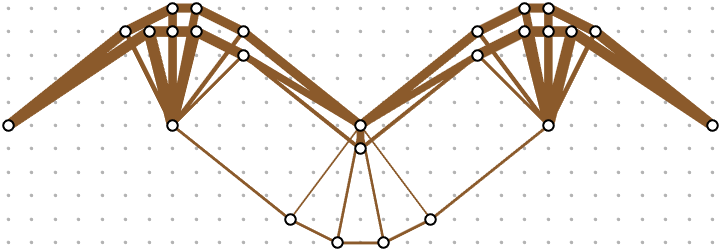
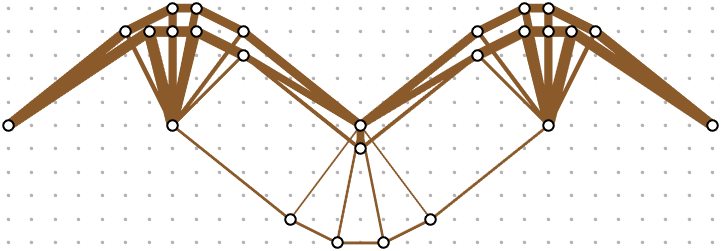
Publish verified September 22 panel results and release documentation

diff --git a/examples/run_validation_Zhang2018.m b/examples/run_validation_Zhang2018.m
@@ -35,7 +35,7 @@ p.x0        = 0.01;
 p.volGroups = 1;
 p.Vmax      = Vmax;
 p.maxIter   = 1000;
-p.alphaF    = 1e-3;  p.Nfilter = 1;
+p.alphaF    = 1e-4;  p.Nfilter = 1;
 p.barColor  = [0.545 0.353 0.169];      % the paper's single-material colour
 p.label     = 'Zhang2018 Fig. 7(c)  --  1 material, 1 volume constraint';
 p.resultDir = 'Zhang2018_Fig7c';
@@ -49,7 +49,7 @@ p.x0        = [0.01 0.01];
 p.volGroups = [1 1];                    % both in constraint 1: one shared budget
 p.Vmax      = Vmax;
 p.maxIter   = 1000;
-p.alphaF    = 1e-3;  p.Nfilter = 1;
+p.alphaF    = 1e-4;  p.Nfilter = 1;
 p.label     = 'Zhang2018 Fig. 8(c)  --  2 materials, 1 volume constraint';
 p.resultDir = 'Zhang2018_Fig8c';
 if ~isempty(outRoot), p.resultDir = fullfile(outRoot,p.resultDir); end
@@ -62,7 +62,7 @@ p.x0        = [0.01 0.01];
 p.volGroups = [1 2];                    % one budget per material
 p.Vmax      = [0.5 0.5]*Vmax;
 p.maxIter   = 1000;
-p.alphaF    = 1e-6;  p.Nfilter = 1;     % 1000x finer filter than the other two
+p.alphaF    = 1e-4;  p.Nfilter = 1;     % same filter in all three cases
 p.label     = 'Zhang2018 Fig. 8(d)  --  2 materials, 2 volume constraints';
 p.resultDir = 'Zhang2018_Fig8d';
 if ~isempty(outRoot), p.resultDir = fullfile(outRoot,p.resultDir); end

diff --git a/docs/examples.md b/docs/examples.md
@@ -1,20 +1,34 @@
 # Manuscript study settings
 
-For the latest rerun, see `../results/verification.csv`. The numerical/timing table below records the earlier 13 September run, not a timing measurement made during the latest verification run.
-Verified 2026-09-13 using the current runners, MATLAB R2026a Update 2 and base MATLAB. Historical saved outputs are not the source of the revised manuscript tables.
+Verified 2026-09-22 using base MATLAB R2026a Update 2 on 64-bit Windows.
+See [verification.csv](../results/verification.csv) for full-precision outcomes,
+iteration counts, measured runtimes and numerical checks for all twelve cases.
 
-The package has three self-contained runners. Panel runs all three cases; deep-beam and bridge runners enable the first case by default. Pass `true` to the deep-beam or bridge runner for the others. Run all three studies to reproduce the twelve cases. Copy and rename a runner function to create a new case; no case registry is required. Set a new absolute resultDir to preserve historical outputs.
+All three study functions run their complete study by default. Pass `false`
+to the deep-beam or bridge function for the first case only. Supply an absolute
+output root to preserve existing outputs.
 
-## Panel benchmark — Zhang et al. 2018 Table 4
-30×10 m; 30×10 cells; 341 nodes and 19,632 bars; connectivity level 10; total Vmax = 0.15 m³; tolRel = 3e-4.
+## Panel comparison - Zhang et al. (2018), Table 4
 
-| Source panel | maxIter | Nfilter | alphaF | Budgets |
+Geometry: 30 x 10 m; 30 x 10 cells; 341 nodes and 19,632 bars;
+connectivity level 10; total volume 0.15 m^3; `tolRel=3e-4`.
+
+| Source panel | maxIter | Nfilter | alphaF | Budgets (m^3) |
 |---|---:|---:|---:|---|
-| Fig7c |1000|100|1e-3|one 0.15|
-| Fig8c |600|1|1e-3|shared 0.15|
-| Fig8d |1000|1|1e-6|separate 0.075 each|
+| Fig. 7(c) | 1000 | 1 | 1e-4 | One: 0.15 |
+| Fig. 8(c) | 1000 | 1 | 1e-4 | Shared: 0.15 |
+| Fig. 8(d) | 1000 | 1 | 1e-4 | Separate: 0.075 each |
 
-Computed objectives 1.13640063555, 1.13642585758 and 1.17935063918 match the printed values 1.136, 1.136 and 1.179. Shared fractions 0.621796078783/0.378203921217 differ from 0.63/0.37 by 0.82 percentage points; do not claim exact allocation reproduction. Separate fractions are 0.5/0.5. Published member counts 48, 25+19 and 42+33 remain contextual.
+| Case | Published J | Computed J | Difference (%) | Material fractions | Active / displayed / published members |
+|---|---:|---:|---:|---|---|
+| One material | 1.136 | 1.136371 | +0.033 | 1.0000 | 103 / 48 / 48 |
+| Shared budget | 1.136 | 1.136368 | +0.032 | 0.6230 / 0.3770 | 111 / 48 / (25+19) |
+| Separate budgets | 1.179 | 1.179519 | +0.044 | 0.5000 / 0.5000 | 129 / 70 / (42+33) |
+
+The objectives agree within 0.045%; the first two match at three decimal places.
+The third rounds to 1.180, not 1.179. The first two objectives differ by about
+0.00027%. Shared fractions differ from 0.63/0.37 by about 0.70 percentage points.
+Objective agreement does not establish exact allocation or member-count agreement.
 
 ## Deep-beam demonstrations — Zhao et al. 2023 Fig1(d,f,h,j,l)
 Geometry is 60×15 in; P = 1 kip; Et = 29,007.5 ksi; Ec = 4,351.1 ksi. Settings: maxIter = 2000, tolRel = 1e-6, alphaF = 1e-4 and Nfilter = 350. Four 16×4 meshes have 2,196 candidate bars; scenario 2 uses 12×3 and 835 bars. Automatic budgets are 493.3380866 in³ per material (total 986.6761731), or 190.3805558 per material for scenario 2 (total 380.7611116). These five source panels have no directly associated published numerical objective/load-path targets. They demonstrate restrictions, rather than validate published values. Different mesh-dependent budgets prohibit direct objective comparison between scenario 2 and the other cases.
@@ -22,22 +36,17 @@ Geometry is 60×15 in; P = 1 kip; Et = 29,007.5 ksi; Ec = 4,351.1 ksi. Settings:
 ## Bridge reference comparison — Zhang et al. 2017
 Source: Example 2, Fig. 11(a), Fig. 13(a–d) and Table 3. Geometry: 20×5 m; 18×7 grid; 152 nodes and 7,083 bars. Et = 7e7 kN/m²; Ec/Et = 1, .09, .04 and .0225. Settings: maxIter = 6000, fixed eta = .5, alphaF = 1e-4, Nfilter = 1 and tolRel = 0. Vmax = .05 m³ is inferred from J/Psi*, so this is a reference comparison. Published objectives are 1.92, 12.25, 21.96 and 29.57; the largest relative difference is 0.5379%. Display thresholds are .01, .005, .005 and .001, respectively.
 
-## Fresh outcomes
-Active members have positive area in any material. Displayed members follow plot threshold and collinear merging. These are not the source's Published members. All twelve runs below converged and passed final equilibrium and displayed connectivity checks. Timing is one wall-clock run including Engine construction, solve, metrics, plotting and initial saving; it excludes MATLAB startup and later common-scale plotting.
+## Interpreting the saved outcomes
 
-| Case | J | Z/(PH) | Active members | Displayed members | Iterations | Seconds | Equilibrium residual |
-|---|---:|---:|---:|---:|---:|---:|---:|
-|Ex1_deepbeam_full_depth|0.001087405004|7.729301948068732|44|31|716|8.6089535|1.200e-10|
-|Ex2_deepbeam_tie_23H|0.002915000501|7.8750000000108935|26|15|1544|9.4121458|2.172e-11|
-|Ex3_deepbeam_tie_half_H|0.001118734725|7.851190476214265|40|27|452|6.1571808|5.639e-11|
-|Ex4_deepbeam_tie_0_90|0.001321029543|8.60000000001441|54|33|1065|10.9054482|1.099e-10|
-|Ex5_deepbeam_tie_0_45_90|0.001124908452|7.875005988999845|54|23|1707|16.3893739|1.115e-10|
-|Ex7_longspan_bridge\EcEt_0.0225|29.48442515|48.760141101880066|32|26|350|6.105196|1.211e-09|
-|Ex7_longspan_bridge\EcEt_0.04|22.07812662|31.903548799502577|55|45|968|12.0761529|2.829e-13|
-|Ex7_longspan_bridge\EcEt_0.09|12.24315797|20.70433358869541|79|60|1528|18.2552754|7.148e-10|
-|Ex7_longspan_bridge\EcEt_1|1.918642026|18.32381936502688|68|50|3307|38.4387585|4.234e-09|
-|Zhang2018_Fig7c|1.136400636|not requested|103|48|455|27.5011554|2.173e-10|
-|Zhang2018_Fig8c|1.136425858|not requested|97|48|411|29.9878394|3.627e-10|
-|Zhang2018_Fig8d|1.179350639|not requested|175|73|584|64.8662545|3.254e-10|
+Active members have positive area in any material. Displayed members follow
+the display threshold and collinear merging; published counts are separate
+reference quantities. All twelve cases passed convergence, final equilibrium,
+volume-budget and displayed-connectivity checks.
 
-The separate tests/selftest_ZhaoAppendixB.m verifies coordinates, force recovery, lengths and the production Results.loadPath evaluator. It does not validate the optimizer. See the revision verification files for full-precision values, supplied inputs and S.parameters.
+Timings measure each Engine call, including construction, solution, metrics,
+plotting and initial saving. They exclude MATLAB startup and later common-scale
+figure regeneration and depend on the machine and execution conditions.
+
+`tests/selftest_ZhaoAppendixB.m` independently checks coordinates, force recovery,
+lengths and `Results.loadPath`; it does not validate the optimizer. Effective
+inputs are stored in each regenerated result's `S.parameters`.

diff --git a/CHANGELOG.md b/CHANGELOG.md
@@ -1,46 +1,24 @@
 # Changelog
 
-## Unreleased
+## 1.0.0 - 2026-09-22
 
-### Changed
-
-- Made `LICENSE.txt` carry the verbatim GNU GPL v3 text and removed the
-  duplicate `COPYING.txt`, so the license is detected automatically. The
-  `GPL-3.0-or-later` grant is stated by the SPDX header in each source file.
-
-- Flattened the package layout: `src/`, `examples/`, `tests/`, `docs/` and
-  `results/` now sit at the repository root instead of a nested `STMTopRC/`
-  directory. Study runners and `Results` locate their own paths relatively,
-  so no MATLAB code changed. Documentation paths were updated to match.
-- Removed the duplicate `STMTopRC/LICENSE.txt`; the root notice is retained.
-
-- Aligned member-force notation with the manuscript: `Fe` and `S.Fe`.
-  `Results.load` converts the legacy saved force field to the current name.
-
-- Shortened license notices; preserved the unchanged full GPL text in `COPYING.txt`.
-
-- Added author, contribution, reproducibility and troubleshooting guidance.
-- Expanded the root README with installation, units, study and result-field notes.
-- Consolidated usage, output and regression instructions into one root README.
-- Kept three independently callable study functions for the manuscript examples.
-- Added required/unknown input errors and core model validation.
-- Corrected symmetry detection for asymmetric horizontal restraints.
-- Made display metrics respect the stored collinear-merge setting.
-- Added errors for unpaired rescaling options and failed summary-file opening.
-- Added release regression checks and refreshed all twelve case outputs.
-- Corrected citation metadata and clarified numerical and modeling limitations.
-- Removed obsolete documentation and illustrative assets from the software package.
+- Ground-structure engine and result utilities with bilinear axial materials,
+  grouped volume constraints, ZPR updates, discrete filtering and tie restrictions.
+- Three study functions cover twelve manuscript cases; all cases run by default.
+- All panel cases use `alphaF=1e-4`, `Nfilter=1` and `maxIter=1000`.
+- Refreshed panel layouts, summaries and the twelve-case verification table.
+- Aligned signed member-force notation with the manuscript (`Fe` and `S.Fe`).
+- Added input validation, asymmetric-restraint and result-persistence regressions.
+- Consolidated installation and usage in one root README, with supporting
+  parameter, numerical-method, study and reproduction documentation.
+- Included the full GNU GPL v3 license and GPL-3.0-or-later source notices.
 
 ### Verification
 
-All twelve manuscript cases passed convergence, final equilibrium, volume-budget
-and displayed-connectivity checks on MATLAB R2026a Update 2. Panel objectives
-matched published values at their printed precision. The saved verification table
-records this run; the individual study functions regenerate case outputs.
-
-## 1.0.0 - 2026-09-16
-
-Initial version with the ground-structure engine, result utilities and three
-study definitions. This version uses bilinear axial materials, grouped volume
-constraints, ZPR updates, discrete filtering and tie-placement restrictions.
-The changes above have not been assigned a new release tag.
+Verified on 2026-09-22 using base MATLAB R2026a Update 2 on 64-bit Windows.
+Release regressions and all twelve studies passed convergence, final equilibrium,
+volume-budget and displayed-connectivity checks. The three panel objectives
+agree with published values within 0.045%; two match at printed precision.
+The separate-budget objective is 1.179519, rounding to 1.180 rather than 1.179.
+The full-precision numerical and timing snapshot is `results/verification.csv`.
+These checks do not establish global optimality, stability or RC design capacity.

diff --git a/README.md b/README.md
@@ -1,5 +1,7 @@
 # STMTopRC
 
+Release **v1.0.0 - 2026-09-22**.
+
 MATLAB ground-structure topology optimization for reinforced-concrete strut-and-tie models. Bilinear axial materials, grouped volume constraints, ZPR area updates, discrete filtering, and tie location/angle restrictions support research and teaching. The package does not perform RC strength, anchorage, nodal-zone, or detailing checks.
 
 This repository accompanies the manuscript *Ground-structure topology
@@ -43,8 +45,8 @@ beam = run_deepbeam_Ex1_to_Ex5(true);     % five deep-beam cases
 bridge = run_bridge_Ex7a_to_Ex7d(true);   % four bridge cases
 ```
 
-These are the three study entry points for the manuscript. Omit `true` from
-the deep-beam or bridge call to run only its first case. Runners do not clear
+These are the three study entry points for the manuscript. All cases run by default. Pass `false` to
+the deep-beam or bridge function to run only its first case. Runners do not clear
 the caller's workspace and return cell arrays of result structures; for
 example, `panel{1}.J` gives the first panel's objective.
 
@@ -138,7 +140,7 @@ width follows the square root of area.
 
 Optimization convergence, physical equilibrium, volume feasibility, and displayed connectivity are distinct checks. Connectivity does not establish stability or capacity. `S.Z` is normalized by `P*height`; `Results.loadPath` returns the dimensional force-length sum. The bridge's reference P is 40 kN per loaded node, not its 360 kN total.
 
-Panel objectives are checked against printed published targets; shared-budget fractions do not exactly match. Deep beams demonstrate restrictions. The bridge uses an inferred budget and is a reference comparison.
+The three panel objectives agree with published targets within 0.045%; two match at printed precision. Shared-budget fractions are 0.6230/0.3770 rather than 0.63/0.37. Deep beams demonstrate restrictions. The bridge uses an inferred budget and is a reference comparison.
 
 | Result field | Meaning |
 |---|---|
@@ -171,7 +173,7 @@ Zero moduli use `inactiveFactor=1e-6` soft branches. Tie restrictions apply to m
 | [Parameters](docs/parameter_guide.md) | Inputs, defaults and units |
 | [Algorithms](docs/engine_notes.md) | Numerical implementation |
 | [Runner notes](docs/runner_notes.md) | Study assumptions |
-| [Study settings](docs/examples.md) | Model definitions and historical results |
+| [Study settings](docs/examples.md) | Model definitions and verified results |
 | [Reproducibility](docs/reproducibility.md) | Environment, execution, checks and retained data |
 | [Troubleshooting](docs/troubleshooting.md) | Common symptoms and corrective steps |
 | [Results](results/) | Computed layouts, summaries and verification table |

diff --git a/docs/reproducibility.md b/docs/reproducibility.md
@@ -45,8 +45,8 @@ diary off;
 | Bridge | 4 | Reference comparison with an inferred physical volume budget |
 
 See [study settings](examples.md) for geometry, loads, materials and filters.
-The deep-beam and bridge functions run only their first case when called without
-`true`. Running an existing destination overwrites its case files.
+The deep-beam and bridge functions run all cases by default; pass `false` as
+the first argument to run only the first case. Running an existing destination overwrites its case files.
 
 ## Inspect the numerical checks
 
@@ -68,7 +68,11 @@ for k = 1:numel(cases)
            'Displayed graph needs inspection: %s', S.label);
 end
 J = cellfun(@(S) S.J,panel);
-assert(all(abs(J-[1.136 1.136 1.179]) < 0.0005));
+published = [1.136 1.136 1.179];
+relativePercent = 100*abs(J-published)./published;
+assert(all(relativePercent < 0.045)); % stated comparison, not an optimality test
+assert(all(round(J(1:2),3)==published(1:2)));
+% The separate-budget value rounds to 1.180, not 1.179.
 ```
 
 These checks serve different purposes. Area convergence is not proof of a
@@ -88,8 +92,10 @@ your returned `S.J`, `S.Z`, `S.nActive`, `S.nMerged`, `S.nIter` and `S.resid`
 with the corresponding row. Panel `Z` is NaN because those cases disable
 load-path reporting. Do not interpret that NaN as a failed state solve.
 
-Use printed-precision agreement for the stated panel comparison. The shared
-material fractions are about 0.6218/0.3782, rather than the source's 0.63/0.37.
+The 2026-09-22 panel results agree with published objectives within 0.045%;
+only the first two match at three decimal places. The separate-budget objective
+is 1.179519 and rounds to 1.180. Shared material fractions are about
+0.6230/0.3770, rather than the source's 0.63/0.37.
 Deep-beam Scenario 2 changes mesh and automatic budgets, so its objective cannot
 isolate the effect of the tie restriction. The bridge's 0.05 m^3 budget is
 inferred; its objective agreement is not an independent validation.

diff --git a/docs/parameter_guide.md b/docs/parameter_guide.md
@@ -116,7 +116,7 @@ fire at all, and `maxIter` ends the run instead. `tolRel` is scale-free and is
 the right test when comparing models whose areas differ by orders of magnitude.
 Setting `tolOpt = 0` leaves `tolRel` in sole charge.
 
-The five `eta*` parameters rarely need touching. Reach for them only if a run
+The four `eta*` parameters rarely need touching. Reach for them only if a run
 oscillates without converging — or to pin damping off (`etaMin = etaMax = 0.5`,
 `etaInc = etaDec = 1`) when reproducing a source that uses a fixed OC exponent,
 as the bridge case does.
@@ -146,13 +146,6 @@ An angle `a` also allows `180-a`. Struts are never restricted. These act on
 which bars are *eligible* to carry the tie material, not on the sign of the
 converged force — which is why a layout can still show tension outside its
 permitted tie region, carried there by a strut.
-
-## Live animation — removed
-
-`animate`, `showGround`, `animateEvery` and `groundPause` no longer exist. The
-live-view window was display only and never touched a reported number; it was
-removed on 9 September 2026. A run prints its iteration table as it goes and
-draws the final layout when `doPlot` is true.
 
 ## Output
 
@@ -187,7 +180,7 @@ same area in all of them. Two settings then govern how that scale is spent:
   that draws as hairlines at the width a single figure would use.
 - **`plotWidthGamma`** — how the width is distributed across the range. `1`
   makes width proportional to area; below `1` it lifts the light end, so a panel
-  far below the set's maximum still reads instead of looking empty. Any value is
+  far below the set's maximum still reads instead of looking empty. Any positive value is
   monotone, so a thicker line still means a larger area within a panel and
   between panels; proportionality is what is given up, which is why widths on a
   shared scale are read as an ordering rather than measured.

diff --git a/docs/troubleshooting.md b/docs/troubleshooting.md
@@ -7,7 +7,7 @@ explicitly stated. These notes concern the current three study functions.
 |---|---|---|
 | Study function is undefined | Current folder and MATLAB path | Run `addpath(fullfile(pwd,'examples'))` from the repository root. Use `which run_validation_Zhang2018 -all` to detect another copy. |
 | `Engine` or `Results` is undefined in a custom script | Source path | Add `fullfile(pwd,'src')`; supplied studies do this themselves. |
-| Only one deep-beam or bridge case runs | Function argument | Pass `true` to select the complete study. |
+| Only one deep-beam or bridge case runs | Function argument | Pass `true` or omit the argument to select the complete study; `false` selects only the first case. |
 | Missing or unknown parameter error | Field names and required inputs | Check `width`, `height`, `nx`, `ny`, `P`, `Emod`, `x0`, `maxIter` and the parameter guide. Correct the input rather than suppressing the error. |
 | A support or force acts at an unexpected node | Grid spacing and supplied coordinates | Inspect `S.NODE`, `S.suppNodes`, `S.loadNodes` and `S.Fext`. In-domain coordinates snap to the nearest grid node. |
 | Changing the mesh changes the physical budget | Automatic `Vmax` | Specify explicit physical budgets for a controlled mesh comparison. Automatic budgets depend on total candidate length. |

diff --git a/docs/runner_notes.md b/docs/runner_notes.md
@@ -1,8 +1,8 @@
 # Study runner notes
 
-Study entry points are functions. Panel runs all three cases; deep beam and bridge run their first unless passed `true`. An optional absolute output root separates new results. Run all three study functions to reproduce the twelve cases.
+Study entry points are functions. Panel runs all three cases; deep beam and bridge also run all cases by default (pass `false` for the first only). An optional absolute output root separates new results. Run all three study functions to reproduce the twelve cases.
 
-- Panel: same level-10 grid with three material/budget configurations and case-specific filters. Objective agreement does not imply exact allocation/count agreement.
+- Panel: same level-10 grid with three material/budget configurations and uniform filtering (`alphaF=1e-4`, `Nfilter=1`). Objective agreement does not imply exact allocation/count agreement.
 - Deep beam: five tie restrictions. Scenario 2 has a coarser mesh and smaller automatic budget. Its objective does not isolate restriction effects. Sweep figures use common square-root area scaling.
 - Bridge: four modulus ratios, nine 40 kN loads, an inferred 0.05 m^3 budget, and fixed damping 0.5. Common square-root scaling retains each case's display threshold.
 
